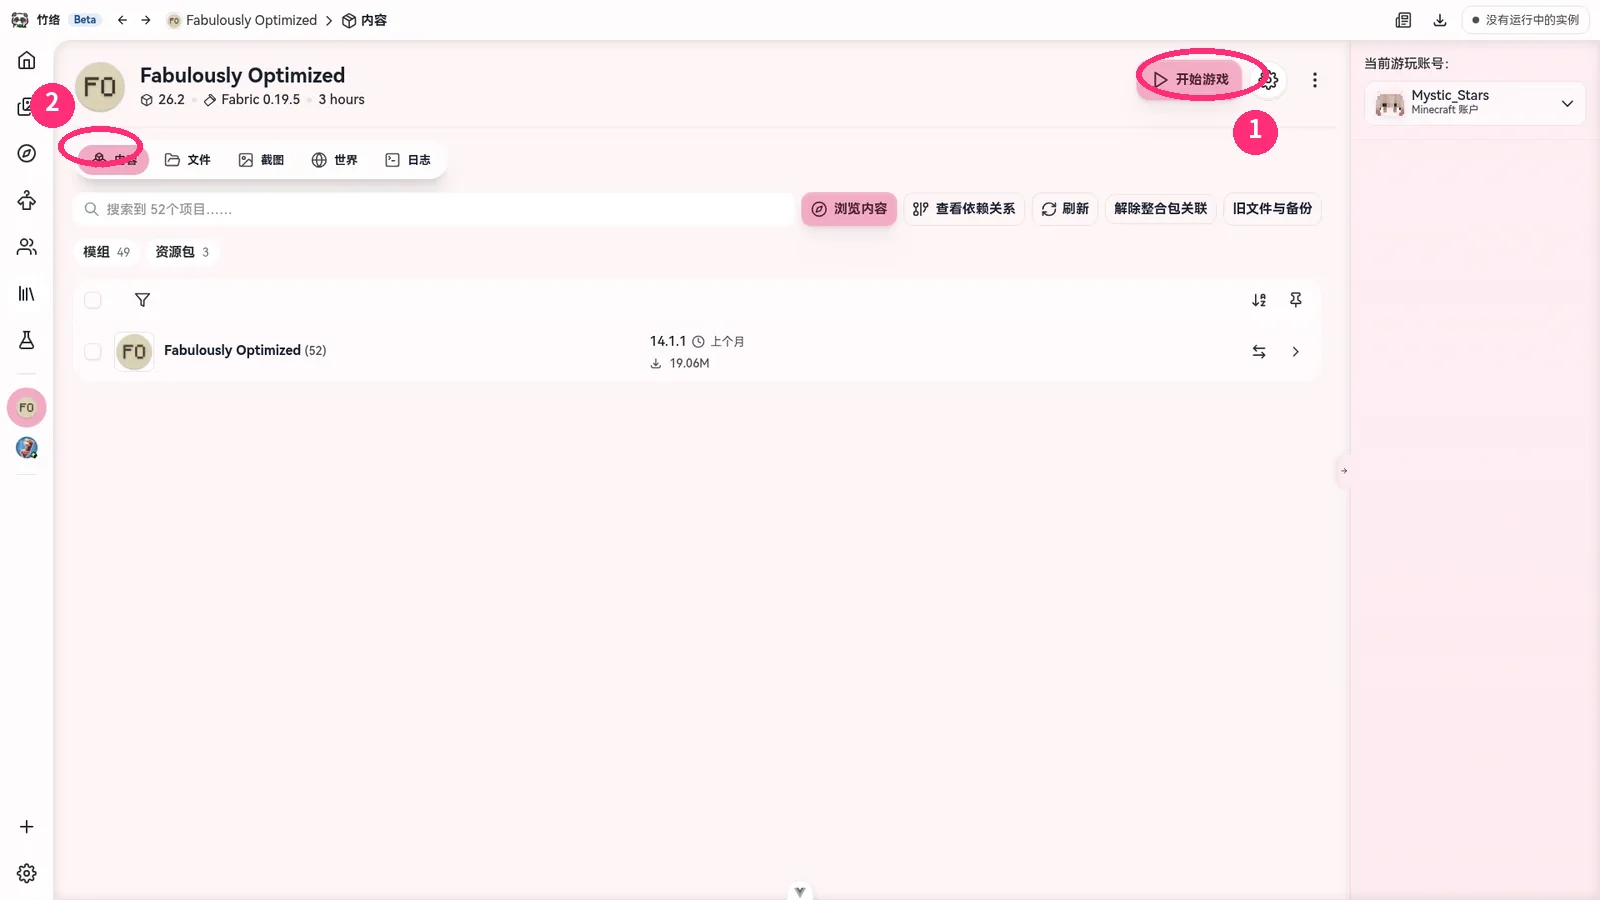
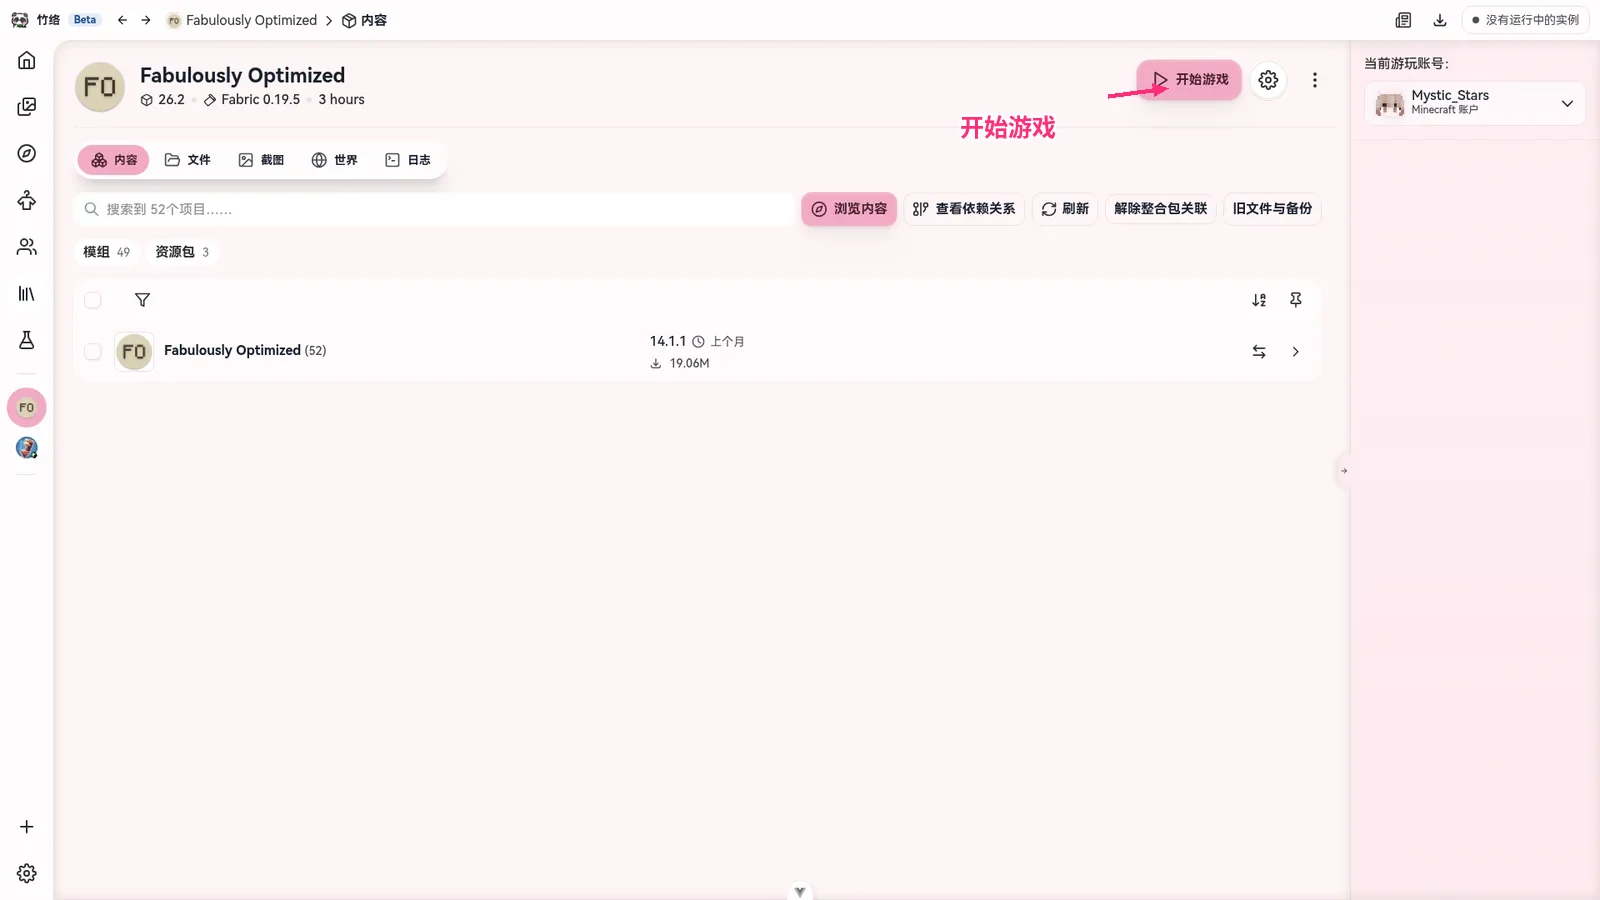
feat(docs): 12 张实机截图改为箭头标注，扩充到首页/联机/皮肤/实验室/实例库/日志/下载源

diff --git a/tools/shots_annotate.py b/tools/shots_annotate.py
@@ -1,68 +1,96 @@
 from PIL import Image, ImageDraw, ImageFont
+import math
 
 SRC = 'docs/.vuepress/public/shots'
 FONT = '/usr/share/fonts/opentype/noto/NotoSansCJK-Bold.ttc'
-PINK = (214, 84, 141)
-W, H = 1600, 900
+OUT = 'docs/.vuepress/public/shots'
+PINK = (255, 45, 120)
 
-def pill(d, xy, text, size=26):
+def label(d, xy, text, size=24, anchor='lm'):
     f = ImageFont.truetype(FONT, size, index=0)
     x, y = xy
-    tw = d.textlength(text, font=f)
-    x = max(12, min(x, W - tw - 40))
-    pad_x, pad_y = 16, 10
-    box = (x, y, x + tw + pad_x * 2, y + size + pad_y * 2)
-    d.rounded_rectangle(box, radius=(size + pad_y * 2) // 2, fill=PINK)
-    d.text((x + pad_x, y + pad_y - 3), text, font=f, fill='white')
-    return box
+    # 白色描边，压在任何背景上都读得清，又不遮挡
+    for dx in (-2, 0, 2):
+        for dy in (-2, 0, 2):
+            d.text((x + dx, y + dy), text, font=f, fill=(255, 255, 255))
+    d.text((x, y), text, font=f, fill=PINK)
 
-def ring(d, center, rx, ry, width=6, color=(255, 45, 120)):
-    x, y = center
-    d.ellipse((x - rx, y - ry, x + rx, y + ry), outline=color, width=width)
-
-def badge(d, xy, num, r=22, color=(255, 45, 120)):
-    f = ImageFont.truetype(FONT, int(r * 1.15), index=0)
-    x, y = xy
-    d.ellipse((x - r, y - r, x + r, y + r), fill=color)
-    tw = d.textlength(num, font=f)
-    d.text((x - tw / 2, y - r * 1.05), num, font=f, fill='white')
-
-def leader(d, label_box, target, color=(255, 45, 120, 255)):
-    lx = (label_box[0] + label_box[2]) / 2
-    ly = label_box[1] if target[1] < label_box[1] else label_box[3]
-    d.line((lx, ly, target[0], target[1]), fill=color, width=3)
+def arrow(d, start, end, width=5, head=16):
+    sx, sy = start; ex, ey = end
+    ang = math.atan2(ey - sy, ex - sx)
+    # 留出箭头长度，别把箭头插到元素中心
+    bx, by = ex - math.cos(ang) * head, ey - math.sin(ang) * head
+    d.line((sx, sy, bx, by), fill=PINK, width=width)
+    p1 = (ex, ey)
+    p2 = (ex - head * math.cos(ang - 0.42), ey - head * math.sin(ang - 0.42))
+    p3 = (ex - head * math.cos(ang + 0.42), ey - head * math.sin(ang + 0.42))
+    d.polygon([p1, p2, p3], fill=PINK)
 
 def make(name, marks, out, pad_bottom=0):
     im = Image.open(f'{SRC}/{name}.webp').convert('RGB')
     if pad_bottom:
         bg = im.getpixel((5, im.height - 5))
         canvas = Image.new('RGB', (im.width, im.height + pad_bottom), bg)
-        canvas.paste(im, (0, 0))
-        im = canvas
+        canvas.paste(im, (0, 0)); im = canvas
     d = ImageDraw.Draw(im, 'RGBA')
     for m in marks:
-        c = m['at']; rx, ry = m['r']
-        ring(d, c, rx, ry, color=(255, 45, 120, 255))
-        if m.get('badge'):
-            badge(d, m['badge'], m['num'])
+        label(d, m['text_at'], m['text'], anchor=m.get('anchor', 'lm'))
+        arrow(d, m['from'], m['to'], width=m.get('w', 5))
     im.save(out, 'WEBP', quality=86, method=6)
-    print('saved', out, im.size)
-
-OUT = 'docs/.vuepress/public/shots'
+    print('saved', out)
 
 make('browse', [
-    {'at': (1275, 225), 'r': (46, 24), 'num': '1', 'badge': (1170, 200)},
+    {'text': '点「安装」', 'text_at': (1000, 226), 'from': (1135, 228), 'to': (1250, 228)},
 ], f'{OUT}/gui-browse-install.webp')
 
+make('browse', [
+    {'text': '排序方式', 'text_at': (250, 112), 'from': (350, 128), 'to': (178, 144)},
+    {'text': '按类别筛', 'text_at': (1450, 168), 'from': (1450, 150), 'to': (1450, 112)},
+], f'{OUT}/gui-browse-filter.webp')
+
 make('library', [
-    {'at': (1262, 124), 'r': (58, 24), 'num': '1', 'badge': (1310, 172)},
+    {'text': '创建新实例', 'text_at': (1010, 78), 'from': (1160, 96), 'to': (1232, 116)},
 ], f'{OUT}/gui-create-instance.webp')
 
+make('library', [
+    {'text': '排序 / 分组 / 视图', 'text_at': (300, 200), 'from': (330, 186), 'to': (168, 172)},
+], f'{OUT}/gui-library-manage.webp')
+
 make('instance', [
-    {'at': (1202, 74), 'r': (66, 26), 'num': '1', 'badge': (1255, 132)},
-    {'at': (100, 146), 'r': (42, 20), 'num': '2', 'badge': (52, 105)},
+    {'text': '开始游戏', 'text_at': (960, 108), 'from': (1108, 96), 'to': (1168, 88)},
 ], f'{OUT}/gui-instance-start.webp')
 
+make('instance', [
+    {'text': '文件', 'text_at': (330, 196), 'from': (312, 182), 'to': (242, 158)},
+    {'text': '日志', 'text_at': (770, 196), 'from': (752, 182), 'to': (676, 158)},
+], f'{OUT}/gui-instance-files.webp')
+
 make('settings', [
-    {'at': (120, 450), 'r': (76, 16), 'num': '1', 'badge': (62, 428)},
+    {'text': 'Java 与性能', 'text_at': (360, 452), 'from': (300, 452), 'to': (206, 452)},
 ], f'{OUT}/gui-settings-java.webp')
+
+make('settings', [
+    {'text': '首选下载源', 'text_at': (1010, 524), 'from': (1170, 500), 'to': (1268, 488)},
+], f'{OUT}/gui-settings-download.webp')
+
+make('home', [
+    {'text': '开始游戏', 'text_at': (250, 250), 'from': (250, 272), 'to': (186, 296)},
+    {'text': '换实例', 'text_at': (392, 250), 'from': (392, 272), 'to': (312, 296)},
+], f'{OUT}/gui-home-start.webp')
+
+make('multiplayer', [
+    {'text': '启动联机', 'text_at': (300, 306), 'from': (280, 292), 'to': (180, 282)},
+    {'text': '切换联机方案', 'text_at': (1120, 222), 'from': (1160, 208), 'to': (1186, 176)},
+    {'text': '服务器列表', 'text_at': (300, 74), 'from': (280, 88), 'to': (228, 110)},
+], f'{OUT}/gui-multiplayer.webp')
+
+make('skins', [
+    {'text': '创建皮肤', 'text_at': (1090, 142), 'from': (1160, 124), 'to': (1244, 92)},
+    {'text': '查找玩家皮肤', 'text_at': (880, 142), 'from': (960, 122), 'to': (1088, 92)},
+    {'text': '添加 / 拖入皮肤', 'text_at': (640, 300), 'from': (620, 288), 'to': (566, 268)},
+], f'{OUT}/gui-skins.webp')
+
+make('lab', [
+    {'text': '进入工具', 'text_at': (1140, 306), 'from': (1220, 292), 'to': (1272, 272)},
+    {'text': '按类型筛选', 'text_at': (930, 196), 'from': (1030, 180), 'to': (1082, 156)},
+], f'{OUT}/gui-lab.webp')

diff --git a/docs/docs/instance/manage-instances.md b/docs/docs/instance/manage-instances.md
@@ -16,6 +16,9 @@ createTime: 2026/11/27 17:36:45
 侧边栏点 **实例库**，所有实例都在这里：
 
 - 顶部标签：**全部实例 / 整合包 / 服务器 / 自定义**，按来源分类
+<a class="doc-shot-link" href="/shots/gui-library-manage.webp" target="_blank" rel="noopener"><img class="doc-shot" src="/shots/gui-library-manage.webp" alt="实例库：左上角可切换排序、分组和列表 / 网格视图" /></a>
+<p class="shot-cap">实例库：左上角可切换排序、分组和列表 / 网格视图 · 点图可看大图</p>
+
 - 搜索框支持按名称查找；右侧可以按名称排序、按分组归类
 - **新建分组**：给实例归类（比如“生存”“模组”“服务器包”），分组显示在侧边栏
 - 鼠标悬停实例卡片可以查看详情、右键有更多操作

diff --git a/docs/docs/online/skins.md b/docs/docs/online/skins.md
@@ -13,6 +13,10 @@ createTime: 2026/11/27 17:36:45
 
 **皮肤**就是你在游戏里角色的外观。默认的 Steve / Alex 看腻了？换上自己喜欢的皮肤，游戏体验完全不一样。
 
+<a class="doc-shot-link" href="/shots/gui-skins.webp" target="_blank" rel="noopener"><img class="doc-shot" src="/shots/gui-skins.webp" alt="皮肤选择器：「创建皮肤」「查找玩家皮肤」，中间空位可以拖入皮肤文件" /></a>
+<p class="shot-cap">皮肤选择器：「创建皮肤」「查找玩家皮肤」，中间空位可以拖入皮肤文件 · 点图可看大图</p>
+
+
 ### 正版账户的皮肤
 
 正版账户可以在游戏里或 Minecraft 官网换皮肤，登录后自动同步显示。

diff --git a/docs/docs/instance/settings.md b/docs/docs/instance/settings.md
@@ -60,6 +60,9 @@ createTime: 2026/11/27 17:36:45
 
 ### 内容与下载
 
+<a class="doc-shot-link" href="/shots/gui-settings-download.webp" target="_blank" rel="noopener"><img class="doc-shot" src="/shots/gui-settings-download.webp" alt="内容与下载：首选下载源默认 Modrinth，网络不好可以换镜像" /></a>
+<p class="shot-cap">内容与下载：首选下载源默认 Modrinth，网络不好可以换镜像 · 点图可看大图</p>
+
 - **下载来源**：Modrinth / CurseForge 的镜像与站点选择
 - **强制多连接下载**：下载慢就开这个（下载页的提示也会带你过来）
 - 高级下载信息、安装行为（自动安装前置、安装未知整合包前提醒）

diff --git a/docs/docs/content/browse-search.md b/docs/docs/content/browse-search.md
@@ -38,6 +38,9 @@ createTime: 2026/11/27 17:36:45
 - **平台**：只看 Modrinth 或只看 CurseForge
 - **分类**：按类型筛
 - **加载器**：只看 Fabric 或只看 Forge 的模组（**注意：加载器必须和你实例一致**）
+<a class="doc-shot-link" href="/shots/gui-browse-filter.webp" target="_blank" rel="noopener"><img class="doc-shot" src="/shots/gui-browse-filter.webp" alt="列表上方是排序方式，右侧「类别」按多人 / 科技 / 冒险等筛选" /></a>
+<p class="shot-cap">列表上方是排序方式，右侧「类别」按多人 / 科技 / 冒险等筛选 · 点图可看大图</p>
+
 
 ## 排行榜和推荐
 

diff --git a/docs/docs/online/multiplayer.md b/docs/docs/online/multiplayer.md
@@ -40,6 +40,9 @@ IP 从哪来？
 4. 保存
 
 服务器会显示**在线状态**（开没开、多少人玩），一目了然。
+<a class="doc-shot-link" href="/shots/gui-multiplayer.webp" target="_blank" rel="noopener"><img class="doc-shot" src="/shots/gui-multiplayer.webp" alt="多人游戏页：中间「启动联机」开房，右上角切换联机方案，左上「服务器」看已存服务器" /></a>
+<p class="shot-cap">多人游戏页：中间「启动联机」开房，右上角切换联机方案，左上「服务器」看已存服务器 · 点图可看大图</p>
+
 
 ## 点进服务器
 

diff --git a/docs/docs/start/getting-started.md b/docs/docs/start/getting-started.md
@@ -12,6 +12,9 @@ createTime: 2026/11/27 17:36:45
 > 次世代 Minecraft 桌面客户端——全能、美观、全平台覆盖。
 > 
 > **你的最后一款启动器。**
+<a class="doc-shot-link" href="/shots/gui-home-start.webp" target="_blank" rel="noopener"><img class="doc-shot" src="/shots/gui-home-start.webp" alt="首页：箭头处「开始游戏」直接进上次的实例，「切换实例」换别的" /></a>
+<p class="shot-cap">首页：箭头处「开始游戏」直接进上次的实例，「切换实例」换别的 · 点图可看大图</p>
+
 
 ## 这份文档是写给谁的？
 

diff --git a/docs/docs/instance/instance-details.md b/docs/docs/instance/instance-details.md
@@ -38,6 +38,9 @@ createTime: 2026/11/27 17:36:45
 
 - 资源包、光影包、配置文件都在这里
 - 一般新手用不上，但想手动放文件时能找到
+<a class="doc-shot-link" href="/shots/gui-instance-files.webp" target="_blank" rel="noopener"><img class="doc-shot" src="/shots/gui-instance-files.webp" alt="「文件」看实例目录，「日志」看运行输出——崩溃先看日志" /></a>
+<p class="shot-cap">「文件」看实例目录，「日志」看运行输出——崩溃先看日志 · 点图可看大图</p>
+
 
 ## 日志 (Logs)
 

diff --git a/docs/docs/lab/lab.md b/docs/docs/lab/lab.md
@@ -15,6 +15,9 @@ createTime: 2026/11/27 17:36:45
 
 ## 工具一览
 
+<a class="doc-shot-link" href="/shots/gui-lab.webp" target="_blank" rel="noopener"><img class="doc-shot" src="/shots/gui-lab.webp" alt="实验室：每个工具右侧「进入」，右上角还能按类型筛" /></a>
+<p class="shot-cap">实验室：每个工具右侧「进入」，右上角还能按类型筛 · 点图可看大图</p>
+
 | 工具 | 用途 | 目标对象 |
 |---|---|---|
 | 种子地图 | 输入种子，然后查找结构与群系 | 想找好出生点的生存玩家 |
